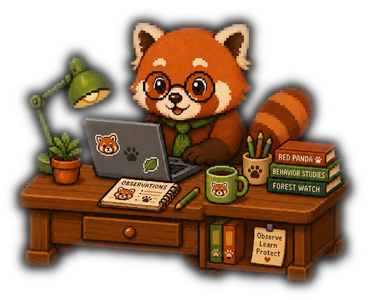
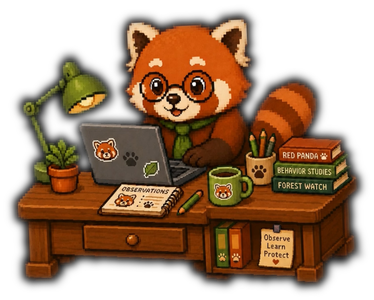
feat: refresh capybara/penguin/red panda art and rebalance workstation scale

diff --git a/src/art/employeeSprites.ts b/src/art/employeeSprites.ts
@@ -43,26 +43,30 @@ export interface EmployeeSpriteConfig {
 }
 
 // Scale normalization: every final workstation sprite is a "seated animal at a
-// desk" composition. To make them all feel proportionate we render each so its
-// DESK reads at the same apparent width as Bea's (~78px in the office, ~112px on
-// the roster card). The per-sprite heights below are derived from each asset's
-// measured desk width so the desks line up regardless of how much the animal or
-// its props extend above the desk. All four provided assets are pre-trimmed to
-// their content, centred (anchorX 0.5) and rest on the bottom edge (baseline 0).
+// desk (with chair)" composition. Each is sized so its DESK reads at a shared
+// apparent width, derived from the asset's measured desk pixels so the desks
+// line up regardless of how much the animal, chair or props extend above. All
+// assets are pre-trimmed to their content, centred (anchorX 0.5) and rest on
+// the bottom edge (baseline 0).
+//
+// Scale refinement pass: Bea (beaver) was raised ~15% and Marlow (capybara),
+// Pingo (penguin) and Canela (red panda) ~20% over their previous rendered
+// size, then eyeballed together in-office for harmony. Pip (squirrel) is
+// intentionally left untouched from the previous pass.
 export const EMPLOYEE_SPRITES: Record<string, EmployeeSpriteConfig> = {
-  // Bea — Beaver, Construction. The established reference desk size.
+  // Bea — Beaver, Construction. Reference desk, raised ~15% (70->80 / 101->116).
   bea: {
     src: 'employees/bea.png',
     poster: 'employees/bea-poster.png',
     frameWidth: 384,
     frameHeight: 336,
-    officeHeight: 70,
-    cardHeight: 101,
+    officeHeight: 80,
+    cardHeight: 116,
     anchorX: 0.5,
     baseline: 0,
   },
   // Pip — Squirrel, Founder. Reading glasses, acorns, laptop; bushy tail rises
-  // above the desk so the frame is nearly square.
+  // above the desk so the frame is nearly square. (Unchanged this pass.)
   pip: {
     src: 'employees/pip.png',
     poster: 'employees/pip-poster.png',
@@ -73,37 +77,38 @@ export const EMPLOYEE_SPRITES: Record<string, EmployeeSpriteConfig> = {
     anchorX: 0.5,
     baseline: 0,
   },
-  // Marlow — Capybara, Morale/HR. Scarf, calm "TODAY / FOCUS / TEA / BREATHE".
+  // Marlow — Capybara, Morale/HR. Teal chair, scarf, calm desk. Raised ~20%.
   marlow: {
     src: 'employees/marlow.png',
     poster: 'employees/marlow-poster.png',
     frameWidth: 366,
     frameHeight: 300,
-    officeHeight: 65,
-    cardHeight: 94,
+    officeHeight: 79,
+    cardHeight: 114,
     anchorX: 0.5,
     baseline: 0,
   },
-  // Pingo — Penguin, Logistics. Scarf, "LOGISTICS / DATA / NAP" desk books.
+  // Pingo — Penguin, Logistics. Purple chair, scarf, "LOGISTICS / DATA / NAP".
+  // Raised ~20%.
   pingo: {
     src: 'employees/penguin.png',
     poster: 'employees/penguin-poster.png',
-    frameWidth: 365,
+    frameWidth: 371,
     frameHeight: 300,
-    officeHeight: 69,
-    cardHeight: 99,
+    officeHeight: 82,
+    cardHeight: 118,
     anchorX: 0.5,
     baseline: 0,
   },
-  // Canela — Red Panda, Research/Naturalist. "RED PANDA / BEHAVIOR STUDIES /
-  // FOREST WATCH" and an "Observe · Learn · Protect" note.
+  // Canela — Red Panda, Research/Naturalist. Desk lamp, "OBSERVATIONS" pad.
+  // Raised ~20%.
   canela: {
     src: 'employees/canela.png',
     poster: 'employees/canela-poster.png',
-    frameWidth: 368,
+    frameWidth: 374,
     frameHeight: 300,
-    officeHeight: 68,
-    cardHeight: 98,
+    officeHeight: 81,
+    cardHeight: 117,
     anchorX: 0.5,
     baseline: 0,
   },
